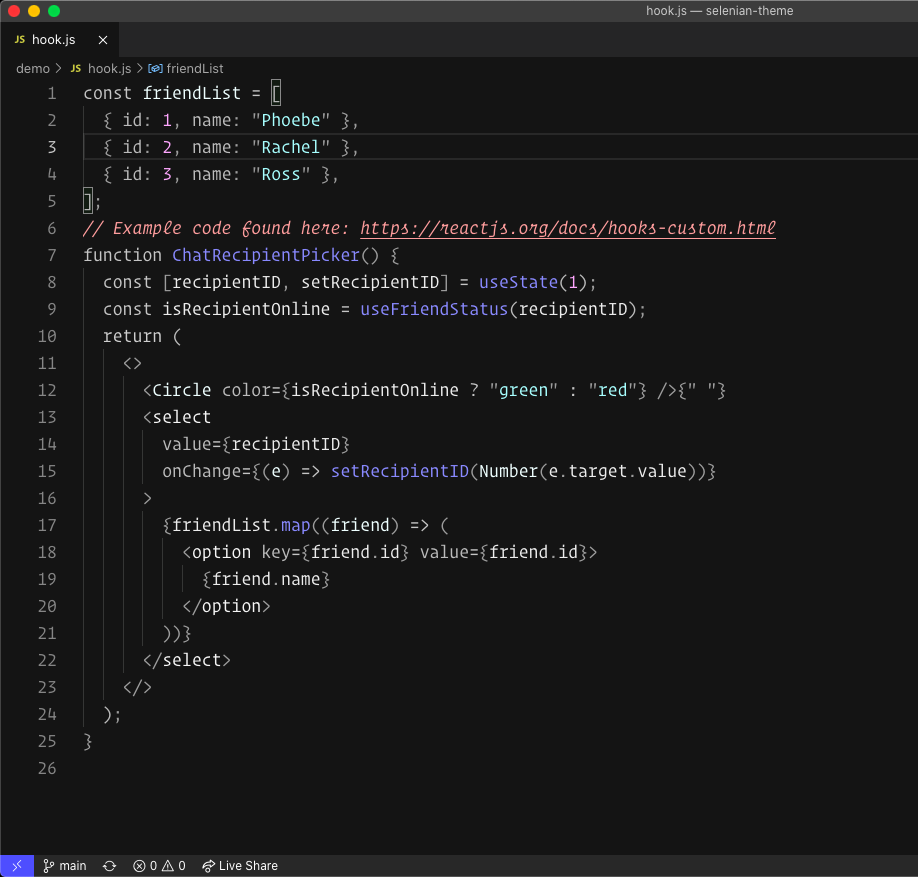
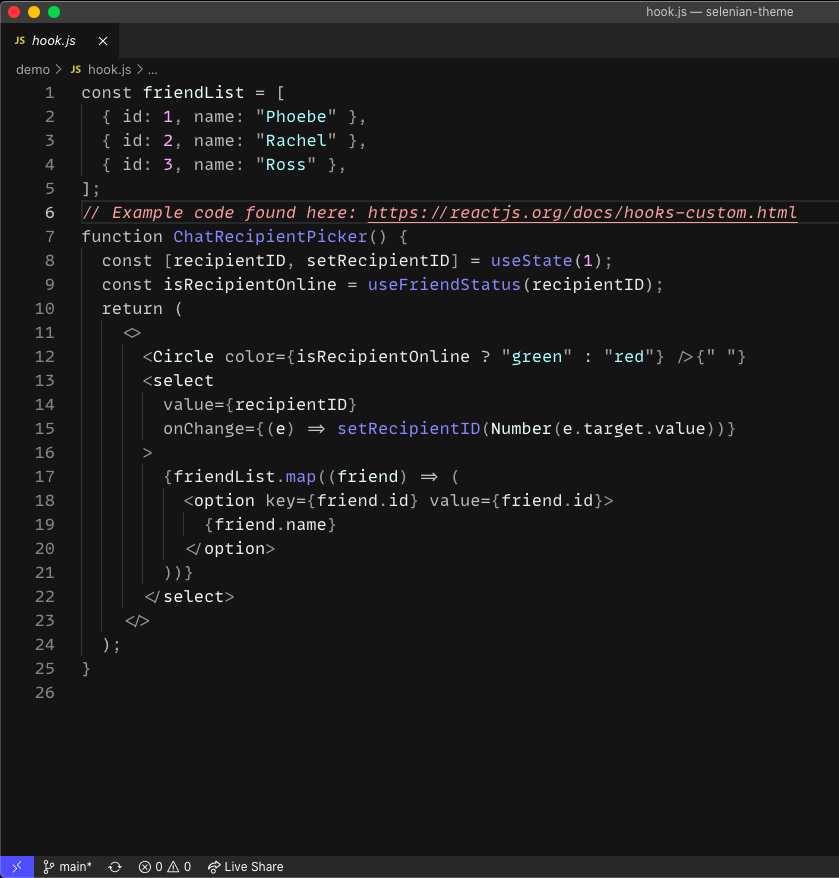
Screenshot update

diff --git a/CHANGELOG.md b/CHANGELOG.md
@@ -5,7 +5,9 @@ All notable changes to the "selenian-theme" extension will be documented in this
 The format is based on [Keep a Changelog](https://keepachangelog.com/en/1.0.0/),
 and this project adheres to [Semantic Versioning](https://semver.org/spec/v2.0.0.html).
 
-## [Unreleased]
+## [1.0.4]
+### Changed
+- Revert screenshot example image
 
 ## [1.0.3]
 ### Changed
@@ -30,3 +32,5 @@ and this project adheres to [Semantic Versioning](https://semver.org/spec/v2.0.0
 
 ## [0.0.1]
 - Initial release
+
+## [Unreleased]
